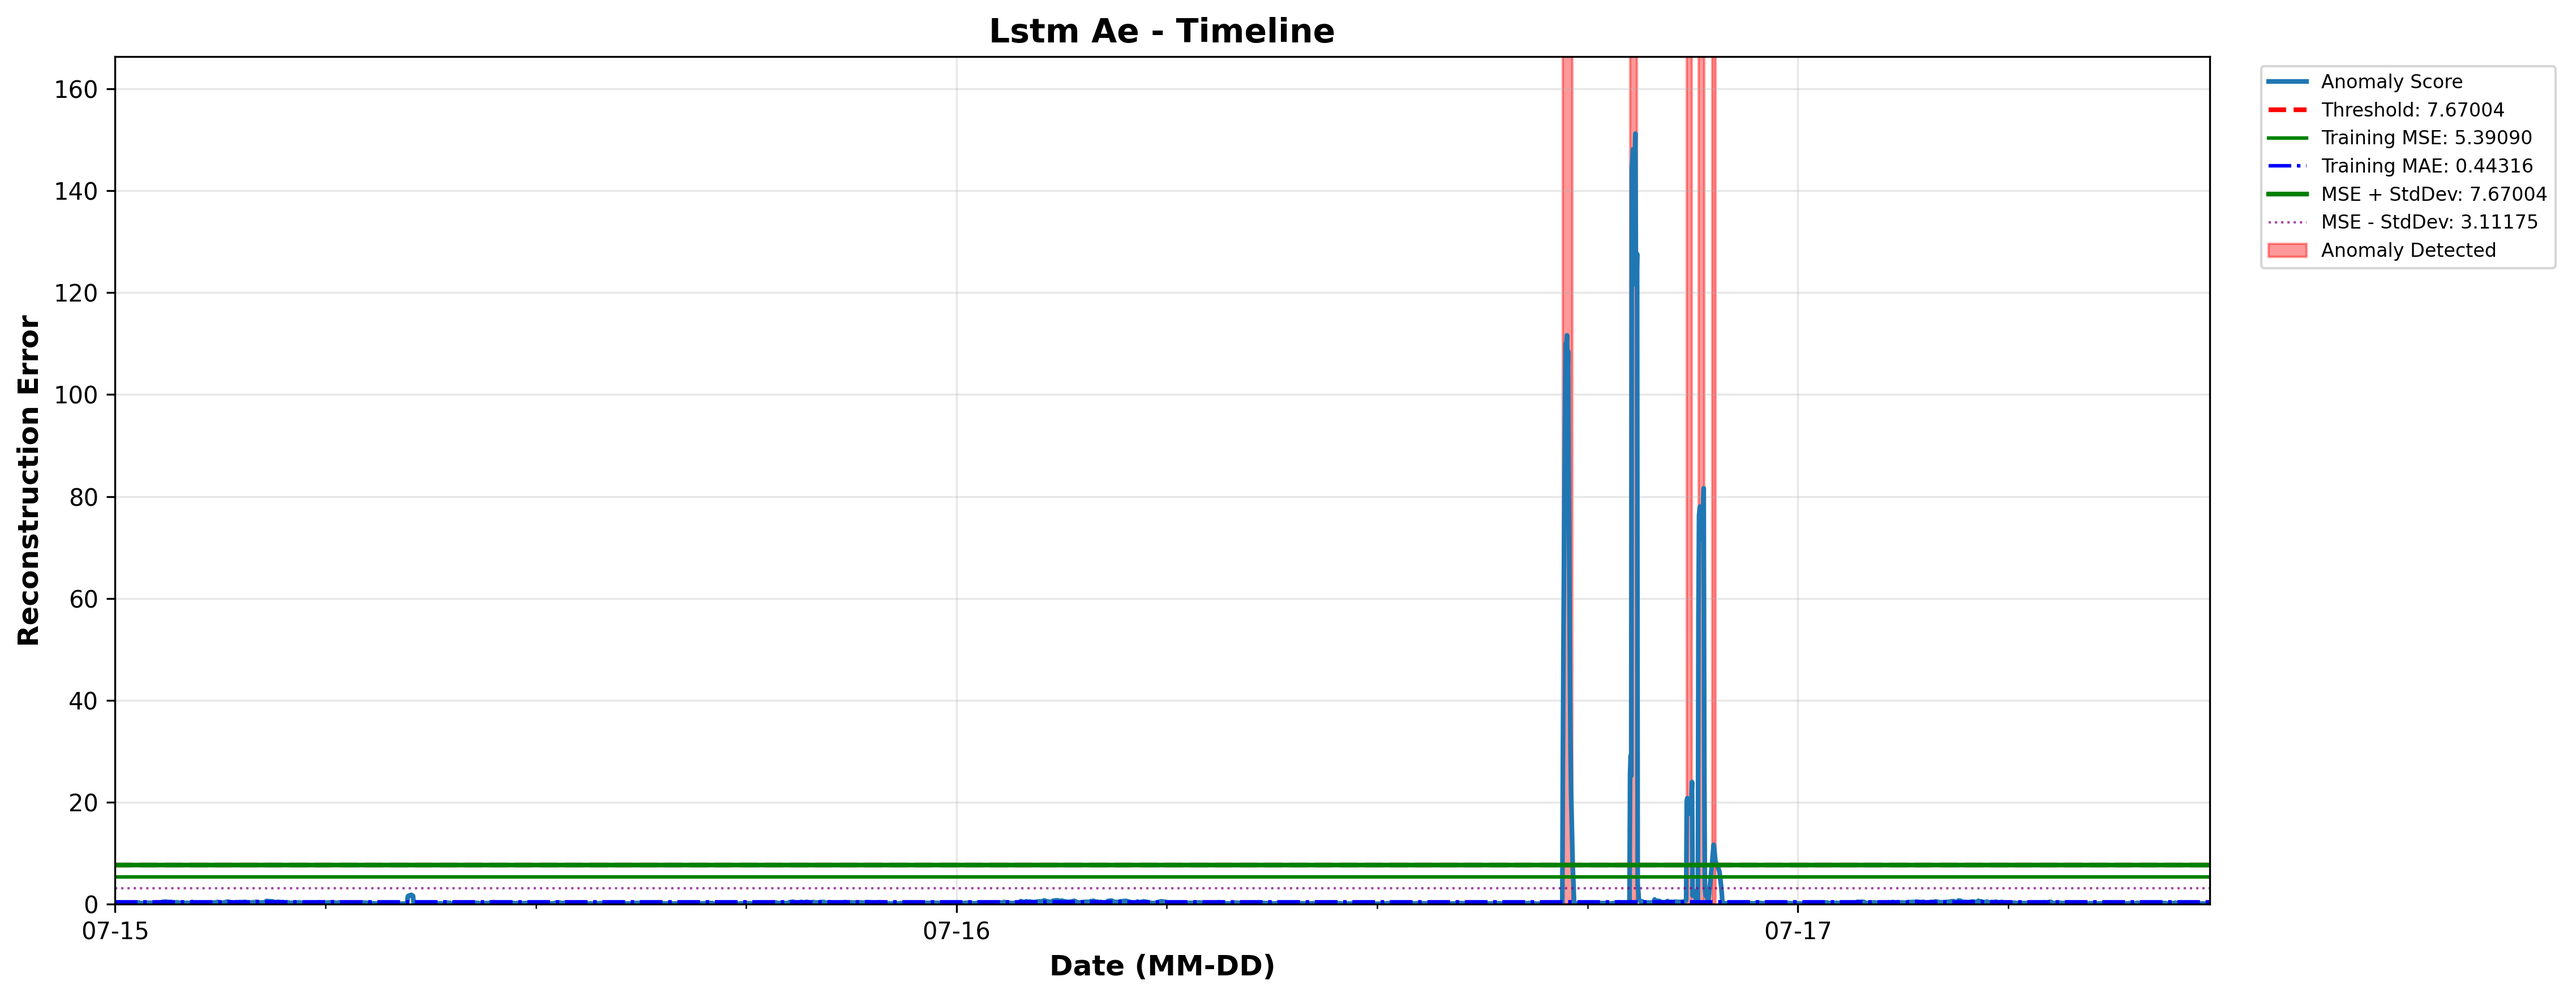
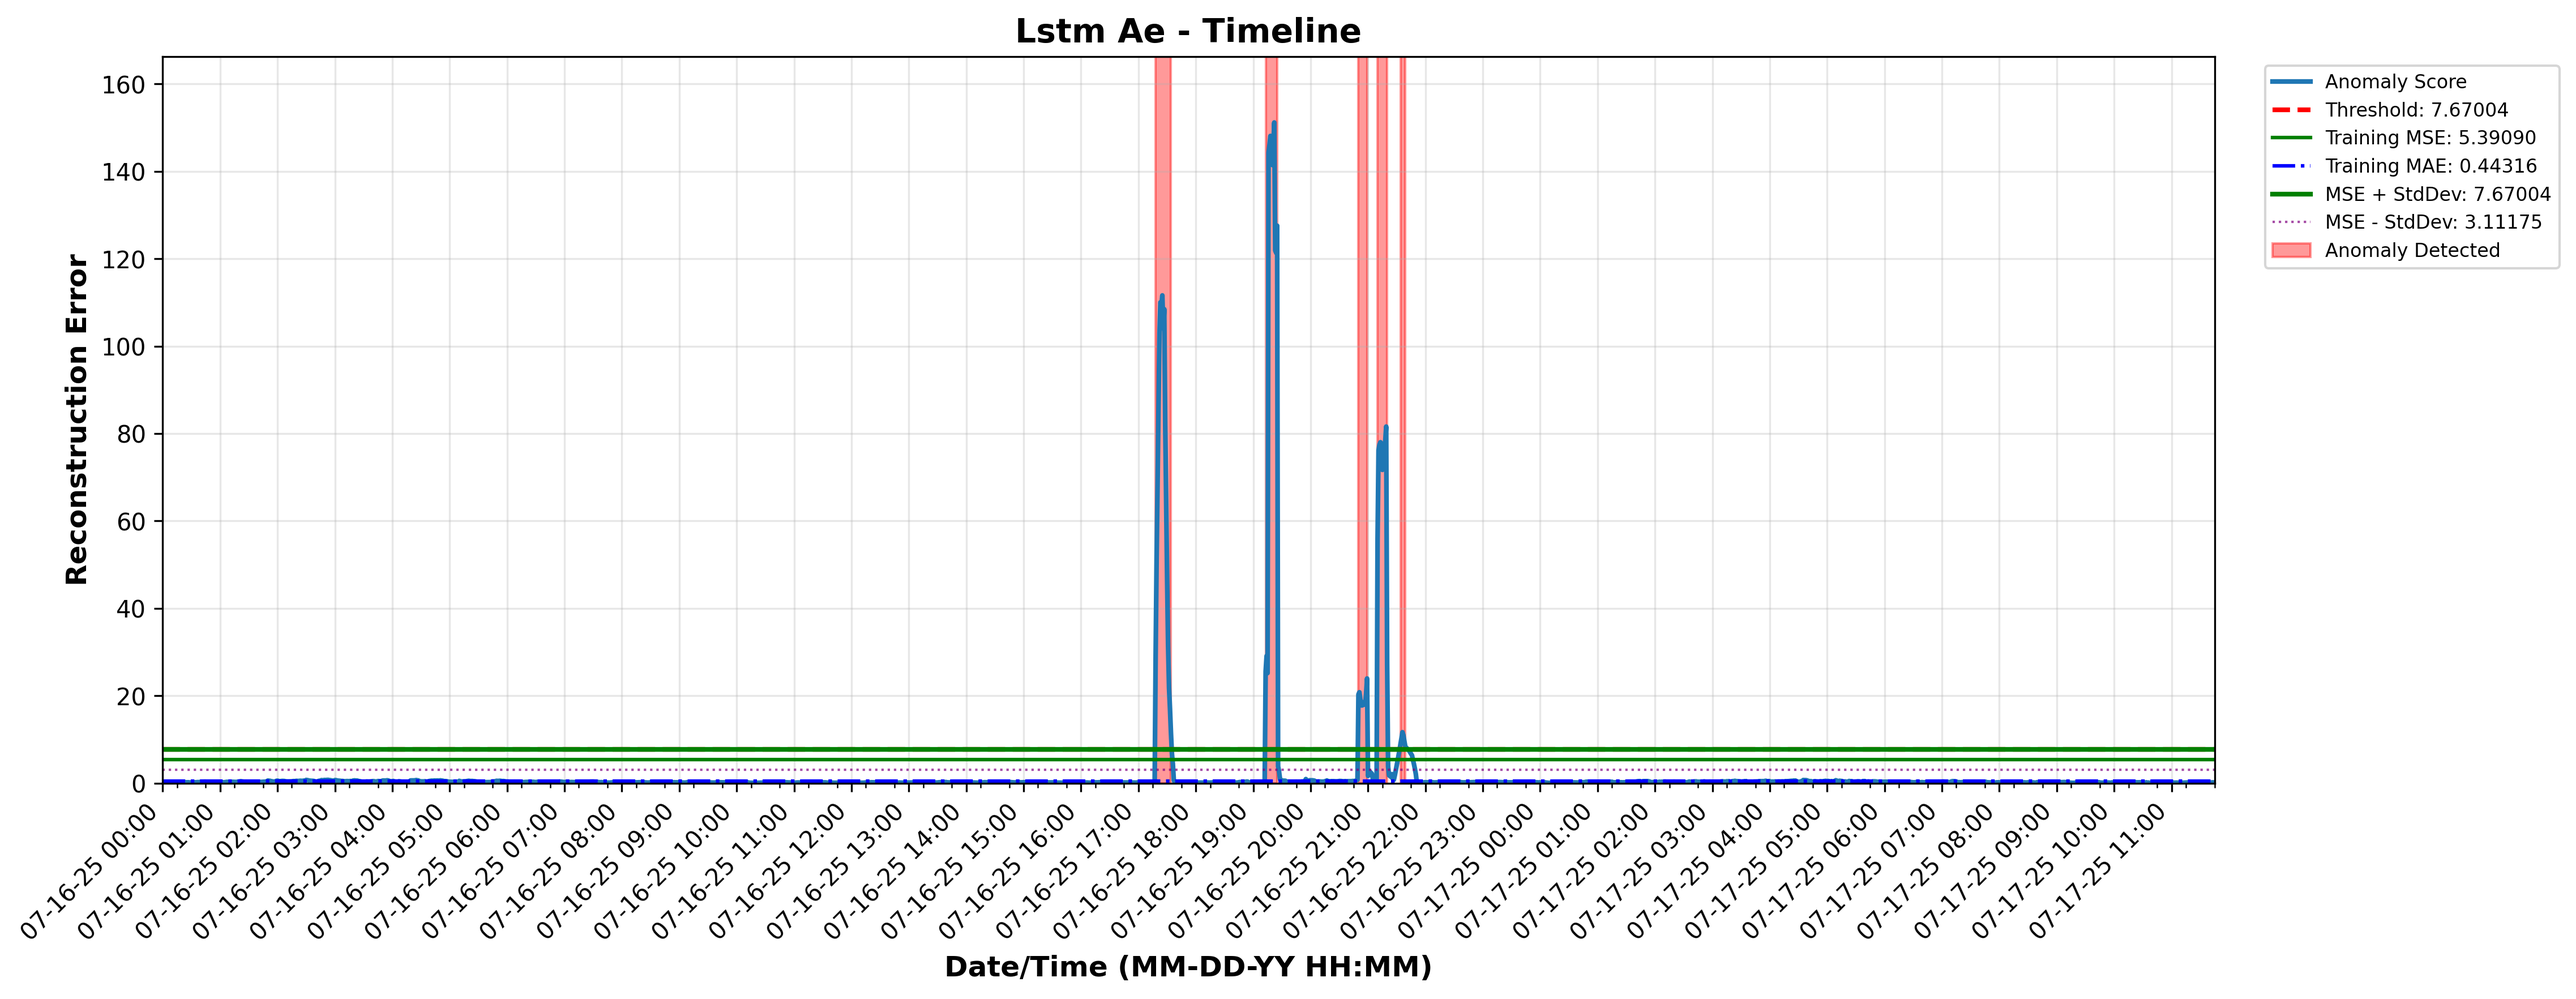
showing date and time on timeline results

diff --git a/visualization.py b/visualization.py
@@ -11,6 +11,7 @@ import matplotlib.pyplot as plt
 import matplotlib.dates as mdates
 from datetime import datetime, timedelta
 import seaborn as sns
+import traceback
 from sklearn.metrics import roc_curve, auc, precision_recall_curve, confusion_matrix, classification_report
 from config import (
     RESULTS_DIR, DPI, FIGURE_SIZE_MAIN, FIGURE_SIZE_TIMELINE,
@@ -90,22 +91,23 @@ class DDoSVisualizer:
         
         if model_trained and has_predict and test_data is not None and attack_data is not None:
             try:
-                # Create extended dataset including more of July 16th for better visualization
-                # Use the full dataset if available to show more test data  
+                # Create dataset with only test days for timeline visualization
+                # Use the full dataset if available to show test data only  
                 if hasattr(self, 'features_df') and self.features_df is not None:
-                    # Use the full dataset and filter for test data
+                    # Use the full dataset and filter for test data only
                     full_data = self.features_df
                     
-                    # Calculate extended timeline date range (include last training day + available test period)
+                    # Calculate test period date range (start from day after training split)
                     train_date = datetime.strptime(TRAIN_SPLIT, "%Y-%m-%d")
-                    # Start from the last day of training data for comprehensive timeline
-                    timeline_start_str = train_date.strftime("%Y-%m-%d")
+                    # Start from the first test day (day after training split)
+                    test_start_date = train_date + timedelta(days=1)
+                    timeline_start_str = test_start_date.strftime("%Y-%m-%d")
                     
                     # Use the actual end date of available data instead of fixed extension
                     data_end_date = pd.to_datetime(full_data['ts_bin'].max()).date()
                     timeline_end_str = (data_end_date + timedelta(days=1)).strftime("%Y-%m-%d")
                     
-                    # Include last training day + entire available test period for comprehensive visualization
+                    # Include only test period for timeline visualization
                     test_period_data = full_data[
                         (full_data['ts_bin'] >= timeline_start_str) & 
                         (full_data['ts_bin'] < timeline_end_str)
@@ -117,7 +119,7 @@ class DDoSVisualizer:
                     # Sort by timestamp to ensure proper order
                     combined_data = combined_data.sort_values('ts_bin').reset_index(drop=True)
                 else:
-                    # Fallback to original approach if full dataset not available
+                    # Fallback to using only test_data if full dataset not available
                     combined_data = pd.concat([test_data, attack_data], ignore_index=True)
                 
                 # Get numerical features only
@@ -218,11 +220,11 @@ class DDoSVisualizer:
                         current_title = ax.get_title()
                         ax.set_title(f"{current_title} - {num_anomalies}/{total_points} anomalies ({anomaly_percentage:.1f}%)")
                     
-                    # Format x-axis for datetime with appropriate ticks for multi-day timeline
-                    # Use day locator for major ticks and hour locator for minor ticks
-                    ax.xaxis.set_major_locator(mdates.DayLocator(interval=1))
-                    ax.xaxis.set_major_formatter(mdates.DateFormatter('%m-%d'))
-                    ax.xaxis.set_minor_locator(mdates.HourLocator(interval=6))
+                    # Format x-axis for datetime with test days only
+                    # Use hourly intervals for better granularity and format as MM-DD-YY HH:MM
+                    ax.xaxis.set_major_locator(mdates.HourLocator(interval=1))  # Major ticks every hour
+                    ax.xaxis.set_major_formatter(mdates.DateFormatter('%m-%d-%y %H:%M'))
+                    ax.xaxis.set_minor_locator(mdates.MinuteLocator(interval=30))  # Minor ticks every 30 minutes
                     
                     # Explicitly set x-axis limits to show all data
                     ax.set_xlim(timestamps.min(), timestamps.max())
@@ -253,10 +255,10 @@ class DDoSVisualizer:
                     except Exception as e:
                         print(f"Warning: Could not set y-axis limits for {model_name}: {e}")
                     
-                    # Rotate x-axis labels for better readability
-                    plt.setp(ax.xaxis.get_majorticklabels(), rotation=0, ha='center')
+                    # Rotate x-axis labels for better readability with longer date format
+                    plt.setp(ax.xaxis.get_majorticklabels(), rotation=45, ha='right')
                     
-                    ax.set_xlabel('Date (MM-DD)', fontsize=12, fontweight='bold')
+                    ax.set_xlabel('Date/Time (MM-DD-YY HH:MM)', fontsize=12, fontweight='bold')
                 
                 else:
                     # Fallback to simple time steps if no timestamp column
@@ -381,15 +383,16 @@ class DDoSVisualizer:
     def _prepare_confusion_matrix_data(self, attack_data, test_data, attack_periods, ready_models):
         """Prepare ground truth labels and model predictions for confusion matrix analysis"""
         try:
-            # Combine datasets
+            # Combine datasets for test days only
             if hasattr(self, 'features_df') and self.features_df is not None:
-                # Use full dataset for comprehensive analysis
+                # Use full dataset for analysis of test days only
                 full_data = self.features_df
                 
-                # Calculate extended timeline date range (include last training day + available test period)
+                # Calculate test period date range (start from day after training split)
                 train_date = datetime.strptime(TRAIN_SPLIT, "%Y-%m-%d")
-                # Start from the last day of training data for comprehensive timeline
-                timeline_start_str = train_date.strftime("%Y-%m-%d")
+                # Start from the first test day (day after training split)
+                test_start_date = train_date + timedelta(days=1)
+                timeline_start_str = test_start_date.strftime("%Y-%m-%d")
                 
                 # Use the actual end date of available data instead of fixed extension
                 data_end_date = pd.to_datetime(full_data['ts_bin'].max()).date()
